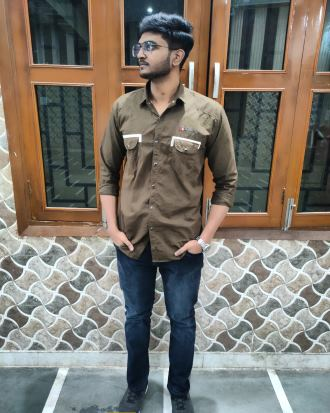
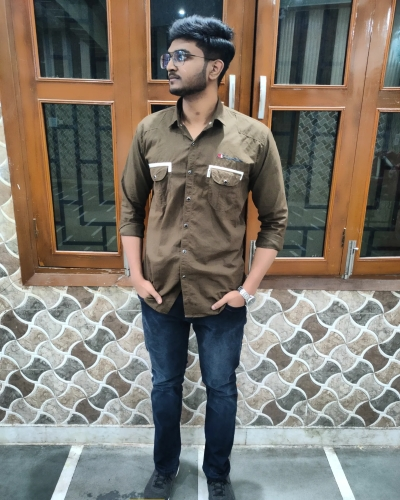
Render the app titles into coloumns

diff --git a/main.py b/main.py
@@ -1,16 +1,33 @@
 import streamlit as st
+import pandas
+
 st.set_page_config(layout="wide")
 col1, col2 = st.columns(2)
 
 with col1:
-    st.image("images/IMG_20220328_001502_882.jpg",width=450)
+    st.image("images/IMG_20220328_001502_882.jpg")
 
 with col2:
     st.title("Mohammad Hammad")
     content = """ 
 
 
-I am a skilled Python web developer, equipped with a deep understanding of web development frameworks and technologies.
- My expertise lies in utilizing Python to create dynamic and robust web applications. 
- With a strong grasp of both front-end and back-end development, I possess the ability to design and implement highly interactive user interfaces while seamlessly integrating them with efficient server-side logic."""
+I am a skilled Python web developer, equipped with a deep understanding of web development frameworks and 
+technologies. My expertise lies in utilizing Python to create dynamic and robust web applications. With a strong 
+grasp of both front-end and back-end development, I possess the ability to design and implement highly interactive 
+user interfaces while seamlessly integrating them with efficient server-side logic. """
     st.info(content)
+
+content2 = """Below  you can find some of the apps I have build in Python.Feel free to contact me !"""
+st.write(content2)
+
+col3, col4 = st.columns(2)
+
+df = pandas.read_csv("data.csv", sep=";")
+with col3:
+    for index, rows in df[:10].iterrows():
+        st.header(rows["title"])
+
+with col4:
+    for index,rows in df[10:].iterrows():
+        st.header(rows["title"])
